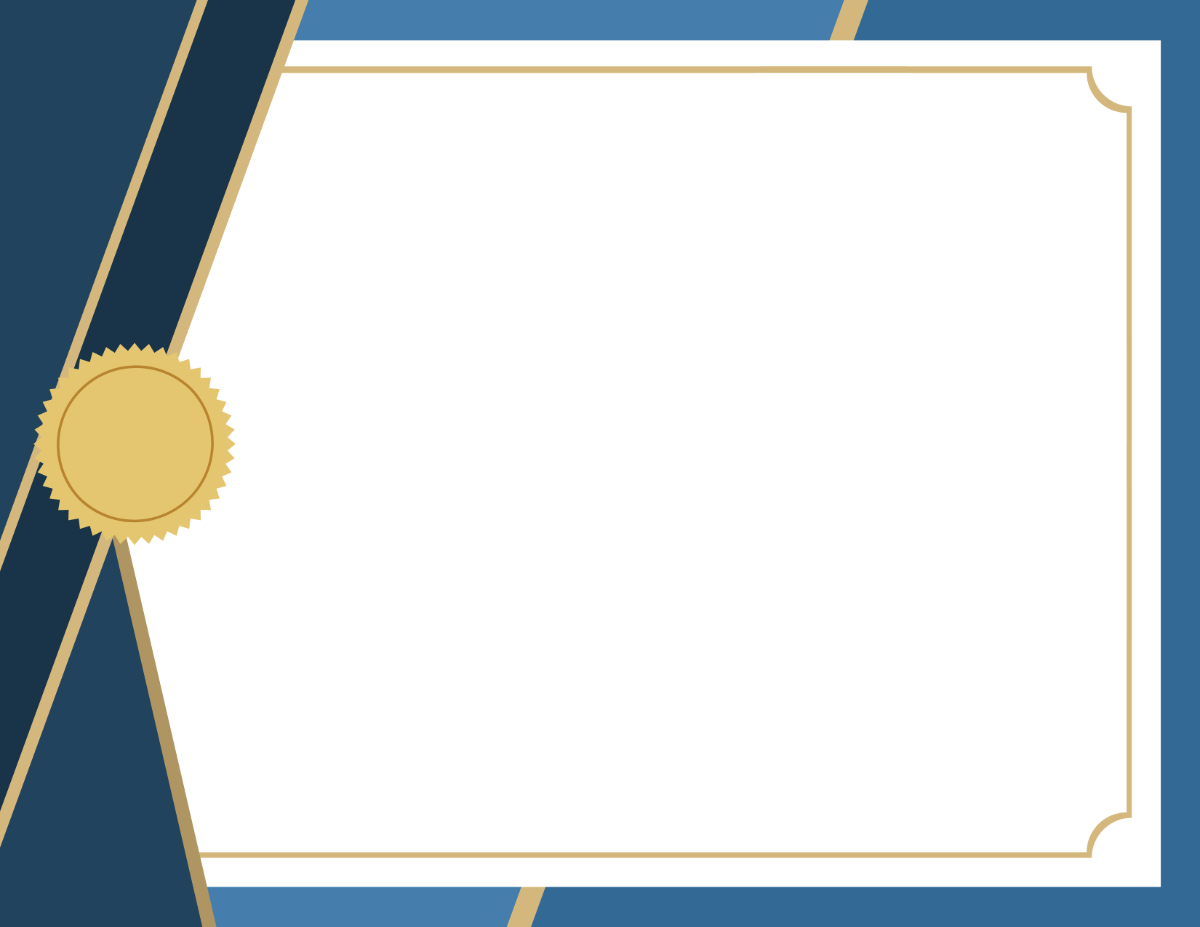
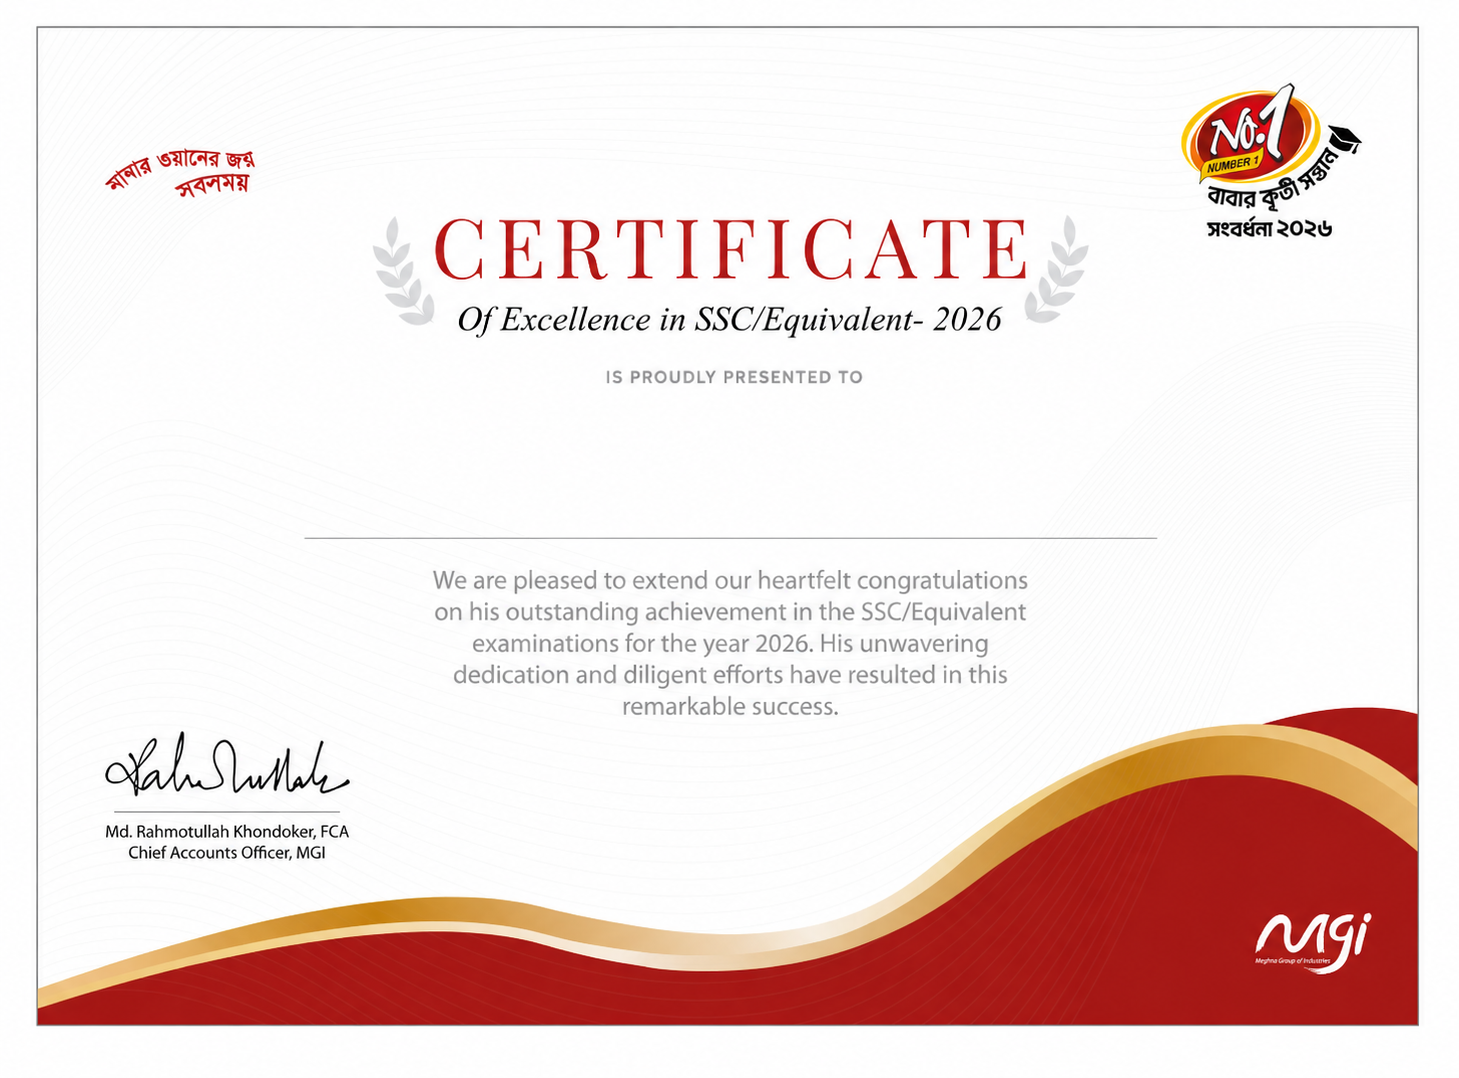
Added Demo certificate

diff --git a/resources/views/frontend/pages/certificate/index.blade.php b/resources/views/frontend/pages/certificate/index.blade.php
@@ -5,172 +5,68 @@
 @section('content')
 
     <style>
-        .cert-wrapper {
+        .certificate-container {
+            width: 100%;
+            max-width: 1400px;
+            margin: 40px auto;
             position: relative;
-            width: 100%;
-            max-width: 1000px;
-            aspect-ratio: 4 / 3;
-            background-image: url('{{ asset('images/certificate_background.png') }}');
-            background-size: cover;
-            background-position: center;
-            background-repeat: no-repeat;
-            box-shadow: 0 15px 35px rgba(0, 0, 0, 0.15);
-            border-radius: 8px;
-            overflow: hidden;
-            ma
         }
 
-        /* Content Overlay Container */
-        .cert-content {
+        .certificate-image {
+            width: 100%;
+            height: auto;
+            display: block;
+        }
+
+        /* Dynamic Student Name */
+        .student-name {
             position: absolute;
-            top: 0;
-            left: 0;
-            width: 100%;
-            height: 100%;
-            padding: 8% 12% 5% 12%;
 
-            display: flex;
-            flex-direction: column;
-            justify-content: space-between;
-            box-sizing: border-box;
-        }
+            /* Name position */
+            top: 42.5%;
+            left: 20%;
+            width: 60%;
 
-        /* Typography Styles */
-        .cert-header-title {
-            font-family: 'Cinzel', serif;
-            color: #000000;
-            font-weight: 800;
-            letter-spacing: 4px;
-            text-shadow: 1px 1px 2px rgba(255, 255, 255, 0.8);
-        }
+            text-align: center;
 
-        .cert-subtitle {
-            font-family: 'Montserrat', sans-serif;
-            color: #475569;
-            font-weight: 500;
-            font-size: 0.9rem;
-            letter-spacing: 3px;
-            text-transform: uppercase;
-        }
-
-        .cert-present-text {
-            font-family: 'Great Vibes', cursive;
-            color: #64748b;
-            font-size: 1.8rem;
-        }
-
-        .cert-recipient-name {
             font-family: 'Noto Serif Bengali', serif;
-            color: #0f2e47;
-            /* Deep luxury navy matching the top arch */
+            font-size: clamp(28px, 4vw, 60px);
             font-weight: 700;
-            font-size: 3rem;
-            display: inline-block;
-            padding-bottom: 5px;
+            color: #111;
+
+            line-height: 1.2;
+            white-space: nowrap;
         }
 
-        .cert-description {
-            font-family: 'Noto Serif Bengali', serif;
-            color: #050505;
-            font-size: 1.15rem;
-            line-height: 1.8;
-            max-width: 750px;
-            margin: 0 auto;
-            background-color: rgba(225, 231, 254, 0.192);
-        }
-
-        /* Signature styling positioned strictly over the template's bottom-left accent lines */
-        .cert-footer-section {
-            margin-bottom: 2%;
-        }
-
-        .signature-title {
-            font-family: 'Montserrat', sans-serif;
-            font-size: 0.75rem;
-            letter-spacing: 1px;
-            text-transform: uppercase;
-            color: #64748b;
-        }
-
-        .signature-font {
-            font-family: 'Great Vibes', cursive;
-            font-size: 1.6rem;
-            color: #1e293b;
-            line-height: 1;
-        }
-
-        /* Responsive adjustments for mid-size displays */
         @media (max-width: 768px) {
-            .cert-recipient-name {
-                font-size: 2rem;
+            .certificate-container {
+                margin: 20px auto;
             }
 
-            .cert-description {
-                font-size: 0.9rem;
-                line-height: 1.5;
-                background-color: rgba(234, 232, 255, 0.214);
-            }
-
-            .cert-header-title {
-                font-size: 1.75rem;
+            .student-name {
+                font-size: clamp(18px, 5vw, 35px);
             }
         }
     </style>
 
-    <div class="py-5 mt-5 px-3 d-flex justify-content-center align-items-center bg-light" style="min-height: 100vh;">
+    <div class="container-fluid px-3">
 
-        <div class="cert-wrapper">
+        <div class="certificate-container">
 
-            <div class="cert-content text-center">
+            {{-- Certificate Background --}}
+            <img
+                src="{{ asset('images/certificate_background.png') }}"
+                alt="Certificate"
+                class="certificate-image"
+            >
 
-                <div class="mt-4">
-                    <h1 class="cert-header-title display-5 mb-1">CERTIFICATE OF HONOUR</h1>
-                    <p class="cert-subtitle mb-0">No.1 Babar Kriti Santan Songbordhona’26</p>
-                    <div class="cert-present-text mt-2">This certificate is proudly presented to</div>
-                </div>
-
-                <div class="my-2">
-                    <span class="cert-recipient-name">{{ $name ?? 'আহমেদ রাশিদুন বারী দ্বীপ' }}</span>
-                    <div class="mx-auto"
-                        style="width: 40%; height: 2px; background: linear-gradient(to right, transparent, #2c4a5e, transparent);">
-                    </div>
-                </div>
-
-                <div>
-                    <p class="cert-description">
-                        পিতার প্রতি অকৃত্রিম ভালোবাসা, দায়িত্বশীলতা এবং সমাজ গঠনে একজন কৃতি সন্তান হিসেবে অনন্য অবদানের
-                        স্বীকৃতিস্বরূপ এই বিশেষ সম্মাননা প্রদান করা হলো। আপনার ভবিষ্যৎ জীবন উত্তরোত্তর সাফল্যমণ্ডিত হোক।
-                    </p>
-                </div>
-
-                <div class="cert-footer-section row align-items-end text-start">
-                    <div class="col-12 row text-center">
-
-                        <div class="col-4">
-                            <span class="font-monospace fw-bold text-dark" style="font-size: 0.95rem;">২১ জুন, ২০২৬</span>
-                            <div style="width: 80%; height: 1px; background-color: #cbd5e1; margin: 4px auto;"></div>
-                            <div class="signature-title">তারিখ (Date)</div>
-                        </div>
-
-                        <div class="col-4">
-                            <span class="signature-font">Committee Head</span>
-                            <div style="width: 80%; height: 1px; background-color: #cbd5e1; margin: 4px auto;"></div>
-                            <div class="signature-title">প্রধান পৃষ্ঠপোষক</div>
-                        </div>
-
-                        <div class="col-4">
-                            <span class="signature-font">Chairperson</span>
-                            <div style="width: 80%; height: 1px; background-color: #cbd5e1; margin: 4px auto;"></div>
-                            <div class="signature-title">সভাপতি</div>
-                        </div>
-
-                    </div>
-
-                    <div class="col-5"></div>
-                </div>
-
+            {{-- Dynamic Student Name --}}
+            <div class="student-name">
+                {{ $name }}
             </div>
+
         </div>
 
     </div>
+
 @endsection
